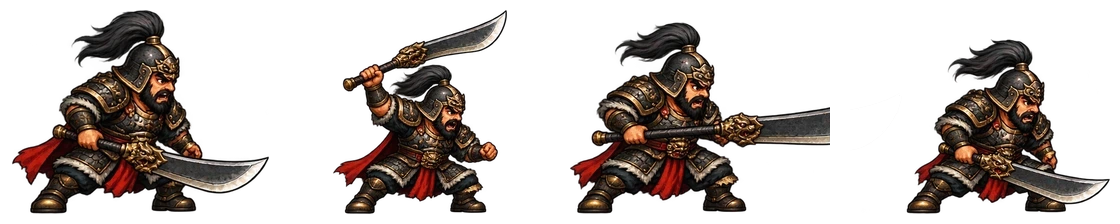
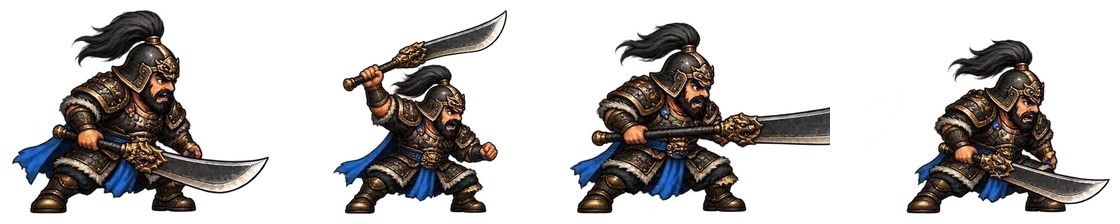
fix: 장수 전투 몸집을 같은 병종 병사와 맞추고 위연에 진영 파랑 추가
Claude-Session: https://claude.ai/code/session_01MpPPA45aaRsErGnvA66if3

diff --git a/packages/web/src/sprite-atlas.ts b/packages/web/src/sprite-atlas.ts
@@ -2,11 +2,14 @@ export const SPRITE_CELL=256;
 /** 완성 병종 원화의 몸집(칸 높이 대비): 걷는 병종 대기 자세 키 · 말·수레·배처럼 옆으로 넓은 병종의 키. */
 export const FOOT_HEIGHT=.6,MOUNT_HEIGHT=.72;
 export interface AtlasPixels {width:number;height:number;data:Uint8ClampedArray}
+/** 장수 시트처럼 병종 병사와 몸집을 맞춰야 하는 시트: height=대기 자세 키(칸 높이 대비), aspect=칸 가로÷세로.
+ * 칸을 가로로 넓히면 창·칼을 길게 내지른 공격 자세 때문에 몸 전체가 줄어들지 않는다(전장은 칸 비율대로 그린다). */
+export interface AtlasFit {height:number;aspect:number}
 
 /** Generated sheets have uneven gutters. Find connected silhouettes before assigning
  * frames, so a spear crossing a nominal cell boundary stays with its owner. */
 /** union=true: 같은 칸에 든 실루엣 조각(투석기와 병사, 떠도는 부적)을 한 프레임으로 합친다. 기본은 칸마다 가장 큰 조각만 쓴다. */
-export function isolateFrames(source:AtlasPixels,rows:number,columns=4,union=false,alphaCutoff=8,strictGrid=false):AtlasPixels {
+export function isolateFrames(source:AtlasPixels,rows:number,columns=4,union=false,alphaCutoff=8,strictGrid=false,fit?:AtlasFit):AtlasPixels {
   const {width,height,data}=source,labels=new Int32Array(width*height);
   if(strictGrid){
     type Box={left:number;top:number;right:number;bottom:number};
@@ -103,17 +106,17 @@ export function isolateFrames(source:AtlasPixels,rows:number,columns=4,union=fal
       b.left=Math.min(b.left,x);b.right=Math.max(b.right,x);b.top=Math.min(b.top,y);b.bottom=Math.max(b.bottom,y);
     }
     boxes.forEach((b,slot)=>{if(b.right<0)throw new Error(`Sprite atlas: empty strict-grid cell ${Math.floor(slot/columns)},${slot%columns}`);});
-    const outWidth=SPRITE_CELL*columns,outHeight=SPRITE_CELL*rows,out=new Uint8ClampedArray(outWidth*outHeight*4);
+    const cellW=Math.round(SPRITE_CELL*(fit?.aspect??1)),outWidth=cellW*columns,outHeight=SPRITE_CELL*rows,out=new Uint8ClampedArray(outWidth*outHeight*4);
     // 병종(행)마다 축척을 따로 정해 모든 병종의 몸집을 맞춘다: 걷는 병종은 대기 자세 키가 FOOT_HEIGHT,
     // 말·수레·배·코끼리처럼 옆으로 넓은 병종은 MOUNT_HEIGHT. 한 행의 네 동작은 같은 축척이라 자세가 바뀌어도 몸집이 같다.
     const rowScale=Array.from({length:rows},(_,row)=>{
       const cells=boxes.slice(row*columns,(row+1)*columns),bw=(b:Box)=>b.right-b.left+1,bh=(b:Box)=>b.bottom-b.top+1;
-      const idle=cells[0]!,wide=bw(idle)/bh(idle)>1.2,target=(wide?MOUNT_HEIGHT:FOOT_HEIGHT)*SPRITE_CELL;
-      return Math.min(target/bh(idle),(SPRITE_CELL-8)/Math.max(...cells.map(bw)),(SPRITE_CELL-16)/Math.max(...cells.map(bh)));
+      const idle=cells[0]!,wide=bw(idle)/bh(idle)>1.2,target=(fit?fit.height:wide?MOUNT_HEIGHT:FOOT_HEIGHT)*SPRITE_CELL;
+      return Math.min(target/bh(idle),(cellW-8)/Math.max(...cells.map(bw)),(SPRITE_CELL-16)/Math.max(...cells.map(bh)));
     });
     boxes.forEach((b,slot)=>{
       const scale=rowScale[Math.floor(slot/columns)]!,w=Math.round((b.right-b.left+1)*scale),h=Math.round((b.bottom-b.top+1)*scale);
-      const ox=(slot%columns)*SPRITE_CELL+Math.floor((SPRITE_CELL-w)/2),oy=Math.floor(slot/columns)*SPRITE_CELL+SPRITE_CELL-14-h;
+      const ox=(slot%columns)*cellW+Math.floor((cellW-w)/2),oy=Math.floor(slot/columns)*SPRITE_CELL+SPRITE_CELL-14-h;
       for(let y=0;y<h;y++)for(let x=0;x<w;x++){
         const sx=b.left+Math.min(b.right-b.left,Math.floor(x/scale)),sy=b.top+Math.min(b.bottom-b.top,Math.floor(y/scale)),p=sy*width+sx;
         if(cellOf[p]!==slot)continue;
@@ -171,7 +174,7 @@ function toCanvas(p:AtlasPixels){
   const g=canvas.getContext('2d',{willReadFrequently:true})!,img=g.createImageData(p.width,p.height);img.data.set(p.data);g.putImageData(img,0,0);return canvas;
 }
 /** Small worker pool: every sheet is cut in parallel, away from the main thread. */
-type Job={url:string;blob:Blob;rows:number;columns:number;union:boolean;alphaCutoff:number;strictGrid:boolean;resolve:(c:HTMLCanvasElement)=>void;reject:(e:unknown)=>void};
+type Job={url:string;blob:Blob;rows:number;columns:number;union:boolean;alphaCutoff:number;strictGrid:boolean;fit?:AtlasFit;resolve:(c:HTMLCanvasElement)=>void;reject:(e:unknown)=>void};
 const queue:Job[]=[],idle:Worker[]=[],pending=new Map<number,Job>(),running=new Map<Worker,number>();let workers=0,jobs=0;
 /** 작업자 파일을 못 불러오면(배포 누락·차단) 다시 쓰지 않고 메인 스레드에서 자른다. 대기가 끝나지 않아 화면이 멈추는 일을 막는다. */
 let workerBroken=false;
@@ -198,22 +201,22 @@ function dispatch(){
     const job=queue.shift()!,id=++jobs;pending.set(id,job);running.set(w,id);
     // 답이 오지 않는 작업은 메인 스레드로 넘긴다(작업자가 조용히 죽은 경우). 시간은 자르기만 잰다.
     setTimeout(()=>{const j=pending.get(id);if(j){pending.delete(id);j.reject(new Error('atlas worker timed out'));}},JOB_TIMEOUT);
-    w.postMessage({id,url:new URL(job.url,location.href).href,blob:job.blob,rows:job.rows,columns:job.columns,union:job.union,alphaCutoff:job.alphaCutoff,strictGrid:job.strictGrid});
+    w.postMessage({id,url:new URL(job.url,location.href).href,blob:job.blob,rows:job.rows,columns:job.columns,union:job.union,alphaCutoff:job.alphaCutoff,strictGrid:job.strictGrid,fit:job.fit});
   }
 }
-async function onMainThread(url:string,rows:number,columns:number,union=false,alphaCutoff=8,strictGrid=false){
+async function onMainThread(url:string,rows:number,columns:number,union=false,alphaCutoff=8,strictGrid=false,fit?:AtlasFit){
   const img=new Image();img.src=url;await img.decode();
   const canvas=document.createElement('canvas');canvas.width=img.naturalWidth;canvas.height=img.naturalHeight;
   const context=canvas.getContext('2d',{willReadFrequently:true})!;context.drawImage(img,0,0);
-  return toCanvas(isolateFrames(context.getImageData(0,0,canvas.width,canvas.height),rows,columns,union,alphaCutoff,strictGrid));
+  return toCanvas(isolateFrames(context.getImageData(0,0,canvas.width,canvas.height),rows,columns,union,alphaCutoff,strictGrid,fit));
 }
-export function spriteAtlas(url:string,rows:number,columns=4,union=false,alphaCutoff=8,strictGrid=false){
+export function spriteAtlas(url:string,rows:number,columns=4,union=false,alphaCutoff=8,strictGrid=false,fit?:AtlasFit){
   // 문서 기준 상대 경로를 완전한 주소로: 워커는 자기 스크립트 위치를 기준으로 경로를 풀기 때문이다.
   url=typeof document!=='undefined'?new URL(url,document.baseURI).href:url;
-  const key=url+':'+rows+':'+columns+(union?':u':'')+':a'+alphaCutoff+(strictGrid?':g':'');
-  if(!cache.has(key))cache.set(key,workerBroken||typeof Worker==='undefined'||typeof OffscreenCanvas==='undefined'?onMainThread(url,rows,columns,union,alphaCutoff,strictGrid):
+  const key=url+':'+rows+':'+columns+(union?':u':'')+':a'+alphaCutoff+(strictGrid?':g':'')+(fit?`:f${fit.height}x${fit.aspect}`:'');
+  if(!cache.has(key))cache.set(key,workerBroken||typeof Worker==='undefined'||typeof OffscreenCanvas==='undefined'?onMainThread(url,rows,columns,union,alphaCutoff,strictGrid,fit):
     // 받기는 메인 스레드가 브라우저에 맡기고(느린 회선에서도 시간 제한에 걸리지 않게), 자르기만 작업자에게 넘긴다.
-    download(url).then(blob=>new Promise<HTMLCanvasElement>((resolve,reject)=>{queue.push({url,blob,rows,columns,union,alphaCutoff,strictGrid,resolve,reject});dispatch();})).catch(()=>onMainThread(url,rows,columns,union,alphaCutoff,strictGrid)));
+    download(url).then(blob=>new Promise<HTMLCanvasElement>((resolve,reject)=>{queue.push({url,blob,rows,columns,union,alphaCutoff,strictGrid,...(fit?{fit}:{}),resolve,reject});dispatch();})).catch(()=>onMainThread(url,rows,columns,union,alphaCutoff,strictGrid,fit)));
   return cache.get(key)!;
 }
 

diff --git a/packages/web/src/troop-evolution.ts b/packages/web/src/troop-evolution.ts
@@ -14,7 +14,7 @@ import {singleStageCorrectionRows} from './complete-troops.ts';
 import {LORD_NAMES} from './lords.ts';
 import {OFFICER_FACTION,OFFICER_FACTIONS} from './officer-factions.ts';
 import {paintedTroopArt} from './painted-troops.ts';
-import {spriteAtlas} from './sprite-atlas.ts';
+import {spriteAtlas,type AtlasFit} from './sprite-atlas.ts';
 
 const esc=(s:string)=>s.replace(/[&<>"']/g,c=>({'&':'&amp;','<':'&lt;','>':'&gt;','"':'&quot;',"'":'&#39;'}[c]!));
 export type EvoGroup='all'|'foot'|'spear'|'horse'|'ranged'|'mind'|'siege'|'single'|'officer'|'npc';
@@ -83,13 +83,13 @@ export function evolutionChart(group:EvoGroup='all'){
     ${singles.length?`<section class="evo-line evo-single"><h3>단일 병종 <small>진화하지 않는 병종</small></h3>
     <div class="evo-grid">${singles.map(c=>card(c,0)).join('')}</div></section>`:''}</div>`;
 }
-type SheetDef={id:string;url:string;rows:number;union?:boolean;alphaCutoff?:number;strictGrid?:boolean};
+type SheetDef={id:string;url:string;rows:number;union?:boolean;alphaCutoff?:number;strictGrid?:boolean;fit?:AtlasFit};
 const boxes=new Map<string,Promise<{atlas:HTMLCanvasElement;x:number;y:number;w:number;h:number}|undefined>>();
 /** 시트 한 줄의 대기 자세(첫 칸)에서 실제 그림이 차지하는 둘레. */
 function idleBox(sheet:string,row:number){
   const key=sheet+'#'+row;if(boxes.has(key))return boxes.get(key)!;
   const def=(troopSheets as readonly SheetDef[]).find(s=>s.id===sheet);
-  const p=!def?Promise.resolve(undefined):spriteAtlas(def.url,def.rows,4,!!def.union,def.alphaCutoff??8,!!def.strictGrid).then(atlas=>{
+  const p=!def?Promise.resolve(undefined):spriteAtlas(def.url,def.rows,4,!!def.union,def.alphaCutoff??8,!!def.strictGrid,def.fit).then(atlas=>{
     const cw=Math.floor(atlas.width/4),ch=Math.floor(atlas.height/def.rows),top=row*ch,d=atlas.getContext('2d',{willReadFrequently:true})!.getImageData(0,top,cw,ch).data;
     let l=cw,t=ch,r=-1,b=-1;
     for(let y=0;y<ch;y++)for(let x=0;x<cw;x++)if(d[(y*cw+x)*4+3]!>24){if(x<l)l=x;if(x>r)r=x;if(y<t)t=y;if(y>b)b=y;}

diff --git a/packages/web/test/sprite-atlas-fit.test.ts b/packages/web/test/sprite-atlas-fit.test.ts
@@ -1,0 +1,30 @@
+import {describe,expect,it} from 'vitest';
+import {isolateFrames,SPRITE_CELL} from '../src/sprite-atlas.ts';
+import {officerModelSheets} from '../src/officer-models.ts';
+
+/** 칸마다 사각형 하나(대기 자세는 좁고, 공격 자세는 창을 내지른 듯 가로로 긴) 4칸×1줄 시트. */
+function sheet(){
+  const cw=280,ch=224,width=cw*4,height=ch,data=new Uint8ClampedArray(width*height*4);
+  const rect=(c:number,w:number,h:number)=>{const x0=c*cw+Math.floor((cw-w)/2),y0=ch-20-h;for(let y=y0;y<y0+h;y++)for(let x=x0;x<x0+w;x++)data.set([200,120,60,255],(y*width+x)*4);};
+  rect(0,70,120);rect(1,70,120);rect(2,260,120);rect(3,70,120);
+  return {width,height,data};
+}
+const idleHeight=(p:{width:number;height:number;data:Uint8ClampedArray},cellW:number)=>{let top=1e9,bottom=-1;for(let y=0;y<p.height;y++)for(let x=0;x<cellW;x++)if(p.data[(y*p.width+x)*4+3]!>24){top=Math.min(top,y);bottom=Math.max(bottom,y);}return bottom-top+1;};
+
+describe('장수 시트 몸집 맞춤',()=>{
+  it('fit이 없으면 긴 공격 자세 때문에 몸 전체가 줄어든다',()=>{
+    const out=isolateFrames(sheet(),1,4,false,8,true);
+    expect(out.width).toBe(SPRITE_CELL*4);
+    expect(idleHeight(out,SPRITE_CELL)).toBeLessThan(SPRITE_CELL*.6-10);
+  });
+  it('fit을 주면 칸을 넓혀 대기 자세 키를 병사와 같게 맞춘다',()=>{
+    const out=isolateFrames(sheet(),1,4,false,8,true,{height:.6,aspect:1.5});
+    expect(out.width).toBe(SPRITE_CELL*1.5*4);
+    expect(Math.abs(idleHeight(out,SPRITE_CELL*1.5)-SPRITE_CELL*.6)).toBeLessThanOrEqual(2);
+  });
+  it('장수 전투 시트는 모두 병종에 맞는 fit을 가진다',()=>{
+    const generated=officerModelSheets.filter(s=>s.id.startsWith('officers/')) as Array<{id:string;fit?:{height:number;aspect:number}}>;
+    expect(generated.length).toBeGreaterThan(40);
+    for(const s of generated){expect(s.fit,s.id).toBeDefined();expect(s.fit!.height).toBe(s.id.includes('-heavyCav-')?.69:s.id.includes('-cart-')?.7:.6);}
+  });
+});

diff --git a/packages/web/src/css-atlas.ts b/packages/web/src/css-atlas.ts
@@ -4,13 +4,13 @@
  * 캔버스 메모리 한도를 넘겨 그림이 깨지거나 전장 준비가 실패했다. 이제 화면에 `var(--<시트>-atlas)`가 나타날 때
  * 그 시트 하나만 잘라 CSS 변수로 건다.
  */
-import {spriteAtlas} from './sprite-atlas.ts';
+import {spriteAtlas,type AtlasFit} from './sprite-atlas.ts';
 import {troopSheets,classSheets,loadClassSheets} from './troops.ts';
 import type {UnitClass} from '../../core/src/index.ts';
 
 const started=new Set<string>();
 const atlasUrl=(canvas:HTMLCanvasElement)=>new Promise<string>(resolve=>canvas.toBlob(blob=>resolve(blob?URL.createObjectURL(blob):canvas.toDataURL())));
-type SheetDef={id:string;url:string;rows:number;union?:boolean;alphaCutoff?:number;strictGrid?:boolean};
+type SheetDef={id:string;url:string;rows:number;union?:boolean;alphaCutoff?:number;strictGrid?:boolean;fit?:AtlasFit};
 
 /** `--<id>-atlas`를 아직 걸지 않았으면 그 시트를 잘라 건다(병종 시트·전용 채색 시트만). */
 export function needCssAtlas(id:string){
@@ -18,7 +18,7 @@ export function needCssAtlas(id:string){
   const def=(troopSheets as readonly SheetDef[]).find(s=>s.id===id);
   if(!def&&!id.startsWith('own-'))return;
   started.add(id);
-  const cut=def?spriteAtlas(def.url,def.rows,4,!!def.union,def.alphaCutoff??8,!!def.strictGrid)
+  const cut=def?spriteAtlas(def.url,def.rows,4,!!def.union,def.alphaCutoff??8,!!def.strictGrid,def.fit)
     :loadClassSheets().then(()=>{const url=classSheets.get(id.slice(4) as UnitClass);if(!url)throw new Error('no sheet');return spriteAtlas(url,3);});
   void cut.then(async c=>document.documentElement.style.setProperty('--'+id+'-atlas','url('+await atlasUrl(c)+')')).catch(()=>{started.delete(id);});
 }

diff --git a/packages/web/src/battlefield.ts b/packages/web/src/battlefield.ts
@@ -1,7 +1,7 @@
 import {playbackEvents} from './battle-playback.ts';
 import {troopFacing,troopReaction,troopReactionPose,retreatMotion,battlePath,stepPose} from './troop-motion.ts';
 import {troopRoles,visualClass,troopArt,troopSheets,basicReactionArt,artClass,classSheets,loadClassSheets,hasPaintedMotion} from './troops.ts';
-import {spriteAtlas,outlinedCanvas} from './sprite-atlas.ts';
+import {spriteAtlas,outlinedCanvas,type AtlasFit} from './sprite-atlas.ts';
 import {paintedTroopArt,paintedTroopFrame,paintedFrames} from './painted-troops.ts';
 import {cryFor,reactions,isCrisis,type Emote} from './emotes.ts';
 import type {SoundEvent} from './sound-events.ts';
@@ -309,7 +309,7 @@ export class Battlefield {
     for(const u of state.living())for(const id of this.sheetsFor(u)){
       if(this.sheetWanted.has(id))continue;this.sheetWanted.add(id);
       const own=id.startsWith('own:')?classSheets.get(id.slice(4) as Unit['unitClass']):undefined,def=troopSheets.find(x=>x.id===id) as {url:string;rows:number;union?:boolean;alphaCutoff?:number;strictGrid?:boolean}|undefined;
-      const cut=own?spriteAtlas(own,3):def?spriteAtlas(def.url,def.rows,4,!!def.union,def.alphaCutoff??8,!!def.strictGrid):undefined;if(!cut)continue;
+      const cut=own?spriteAtlas(own,3):def?spriteAtlas(def.url,def.rows,4,!!def.union,def.alphaCutoff??8,!!def.strictGrid,(def as {fit?:AtlasFit}).fit):undefined;if(!cut)continue;
       void cut.then(c=>{this.troopTextures.set(id,smooth(c));this.artDirty=true;this.onArtReady();}).catch(error=>console.warn(id+' 병종 시트를 읽지 못해 기본 그림을 씁니다.',error));
     }
   }

diff --git a/packages/web/src/atlas-worker.ts b/packages/web/src/atlas-worker.ts
@@ -1,13 +1,13 @@
 /// <reference lib="webworker" />
-import {isolateFrames,outlineFrames} from './sprite-atlas.ts';
+import {isolateFrames,outlineFrames,type AtlasFit} from './sprite-atlas.ts';
 
 /** Cuts and outlines a sprite sheet off the main thread so the menu stays responsive. */
-self.onmessage=async(e:MessageEvent<{id:number;url:string;blob?:Blob;rows:number;columns:number;union?:boolean;alphaCutoff?:number;strictGrid?:boolean}>)=>{
-  const {id,url,blob,rows,columns,union,alphaCutoff,strictGrid}=e.data;
+self.onmessage=async(e:MessageEvent<{id:number;url:string;blob?:Blob;rows:number;columns:number;union?:boolean;alphaCutoff?:number;strictGrid?:boolean;fit?:AtlasFit}>)=>{
+  const {id,url,blob,rows,columns,union,alphaCutoff,strictGrid,fit}=e.data;
   try{
     const bitmap=await createImageBitmap(blob??await (await fetch(url)).blob());
     const canvas=new OffscreenCanvas(bitmap.width,bitmap.height),g=canvas.getContext('2d',{willReadFrequently:true})!;g.drawImage(bitmap,0,0);bitmap.close();
-    const plain=isolateFrames(g.getImageData(0,0,canvas.width,canvas.height),rows,columns,!!union,alphaCutoff??8,!!strictGrid),rim=outlineFrames(plain);
+    const plain=isolateFrames(g.getImageData(0,0,canvas.width,canvas.height),rows,columns,!!union,alphaCutoff??8,!!strictGrid,fit),rim=outlineFrames(plain);
     (self as unknown as DedicatedWorkerGlobalScope).postMessage({id,width:plain.width,height:plain.height,plain:plain.data.buffer,rim:rim.data.buffer},[plain.data.buffer,rim.data.buffer]);
   }catch(error){(self as unknown as DedicatedWorkerGlobalScope).postMessage({id,error:String(error)});}
 };

diff --git a/packages/web/src/officer-models.ts b/packages/web/src/officer-models.ts
@@ -44,7 +44,10 @@ const legacySheets=[
   {id:'officer-battle-wei',url:'officer-battle-wei-v2.webp',rows:4,strictGrid:true,alphaCutoff:8},
   {id:'officer-battle-rivals',url:'officer-battle-rivals-v2.webp',rows:4,strictGrid:true,alphaCutoff:8},
 ] as const;
-const generatedSheets=officerManifest.flatMap(e=>Object.values(e.battle).map(b=>({id:b.sheet,url:b.sheet,rows:b.rows,strictGrid:true as const,alphaCutoff:8})));
+/** 전장에서 장수는 같은 병종 병사와 같은 키로 선다(병사 아틀라스 실측: 대부분 칸 높이의 0.6, 중기병 0.69).
+ * 칸을 가로 1.5배로 넓혀, 창·칼을 길게 내지른 공격 자세 때문에 몸 전체가 줄어들지 않게 한다. */
+const officerFit=(cls:string)=>({height:cls==='heavyCav'?.69:cls==='cart'?.7:.6,aspect:1.5});
+const generatedSheets=officerManifest.flatMap(e=>Object.entries(e.battle).map(([cls,b])=>({id:b.sheet,url:b.sheet,rows:b.rows,strictGrid:true as const,alphaCutoff:8,fit:officerFit(cls)})));
 export const officerModelSheets=[...legacySheets,...generatedSheets];
 
 const legacy=new Map<string,OfficerBattleModel>();

diff --git a/docs/tech/지속개발-현황.md b/docs/tech/지속개발-현황.md
@@ -1448,3 +1448,10 @@ npm run dev → http://127.0.0.1:5173. Windows 대괄호 경로는 PowerShell -L
 - 피해 숫자는 돌진이 끝나 제자리로 돌아온 뒤(0.5초, 정면 승부 0.74초, 필살 컷인 1.45초) 머리 위에 띄운다. 정면 승부 때 두 숫자가 가운데서 겹치던 문제.
 - `officer-battle-rivals-v2.webp`: 진궁 칸(3줄)의 발이 잘려 주유 칸(4줄) 위쪽에 붙어 있었다(불투명 픽셀 약 8,800개, 주유 일기토 때 머리 위에 붉은 천 조각). 발 조각을 진궁 칸으로 되돌리고 몸을 그만큼 올렸다. 진궁·주유 칸 위쪽 40px은 이제 비어 있다.
 - 조조·조비 대결 모델이 말 탄 모습이 되어 일기토 `mounted` 목록에 넣었다.
+
+## 장수 전투 몸집·위연 진영색 수정
+
+- 전장 아틀라스는 공격 자세 중 가장 넓은 칸이 256px 칸에 들어가도록 줄 전체를 줄였다. 창·칼을 길게 내지른 장수는 몸까지 작아졌다(256 칸 기준 대기 키: 장비 105, 진궁 107, 허저 111, 주유 117~122, 사마방 123, 감녕 134, 마초 139, 조인 139 — 병사는 154, 중기병 177). 반대로 대기 자세가 옆으로 넓은 위연·강유·여몽(기병)·맹획은 말 탄 병종으로 잘못 판정돼 184로 컸다.
+- `isolateFrames`·`spriteAtlas`에 선택 인자 `fit`(대기 키·칸 가로 비율)을 추가했다. 장수 전투 시트만 `fit={height:.6(중기병 .69, 수레 .7), aspect:1.5}`를 준다. 병사 시트는 그대로다. 전장은 칸 비율대로 그리므로(`TROOP_CELL_SIZE × 가로/세로`) 키는 병사와 같고 창끝만 옆 칸으로 나온다.
+- 결과: 장수 49장 모두 같은 병종 병사와 대기 키가 같다(보병·기병·책사·군주 154, 중기병 176~177).
+- `wei_yan-battle-infantry-v1.webp`: 진영 파랑이 0이라 적이 되어도 빨갛게 염색되지 않았다. 붉은 망토·허리 천을 같은 명도의 파랑(색상 215°)으로 바꿨다(진영색 비율 0.082).
